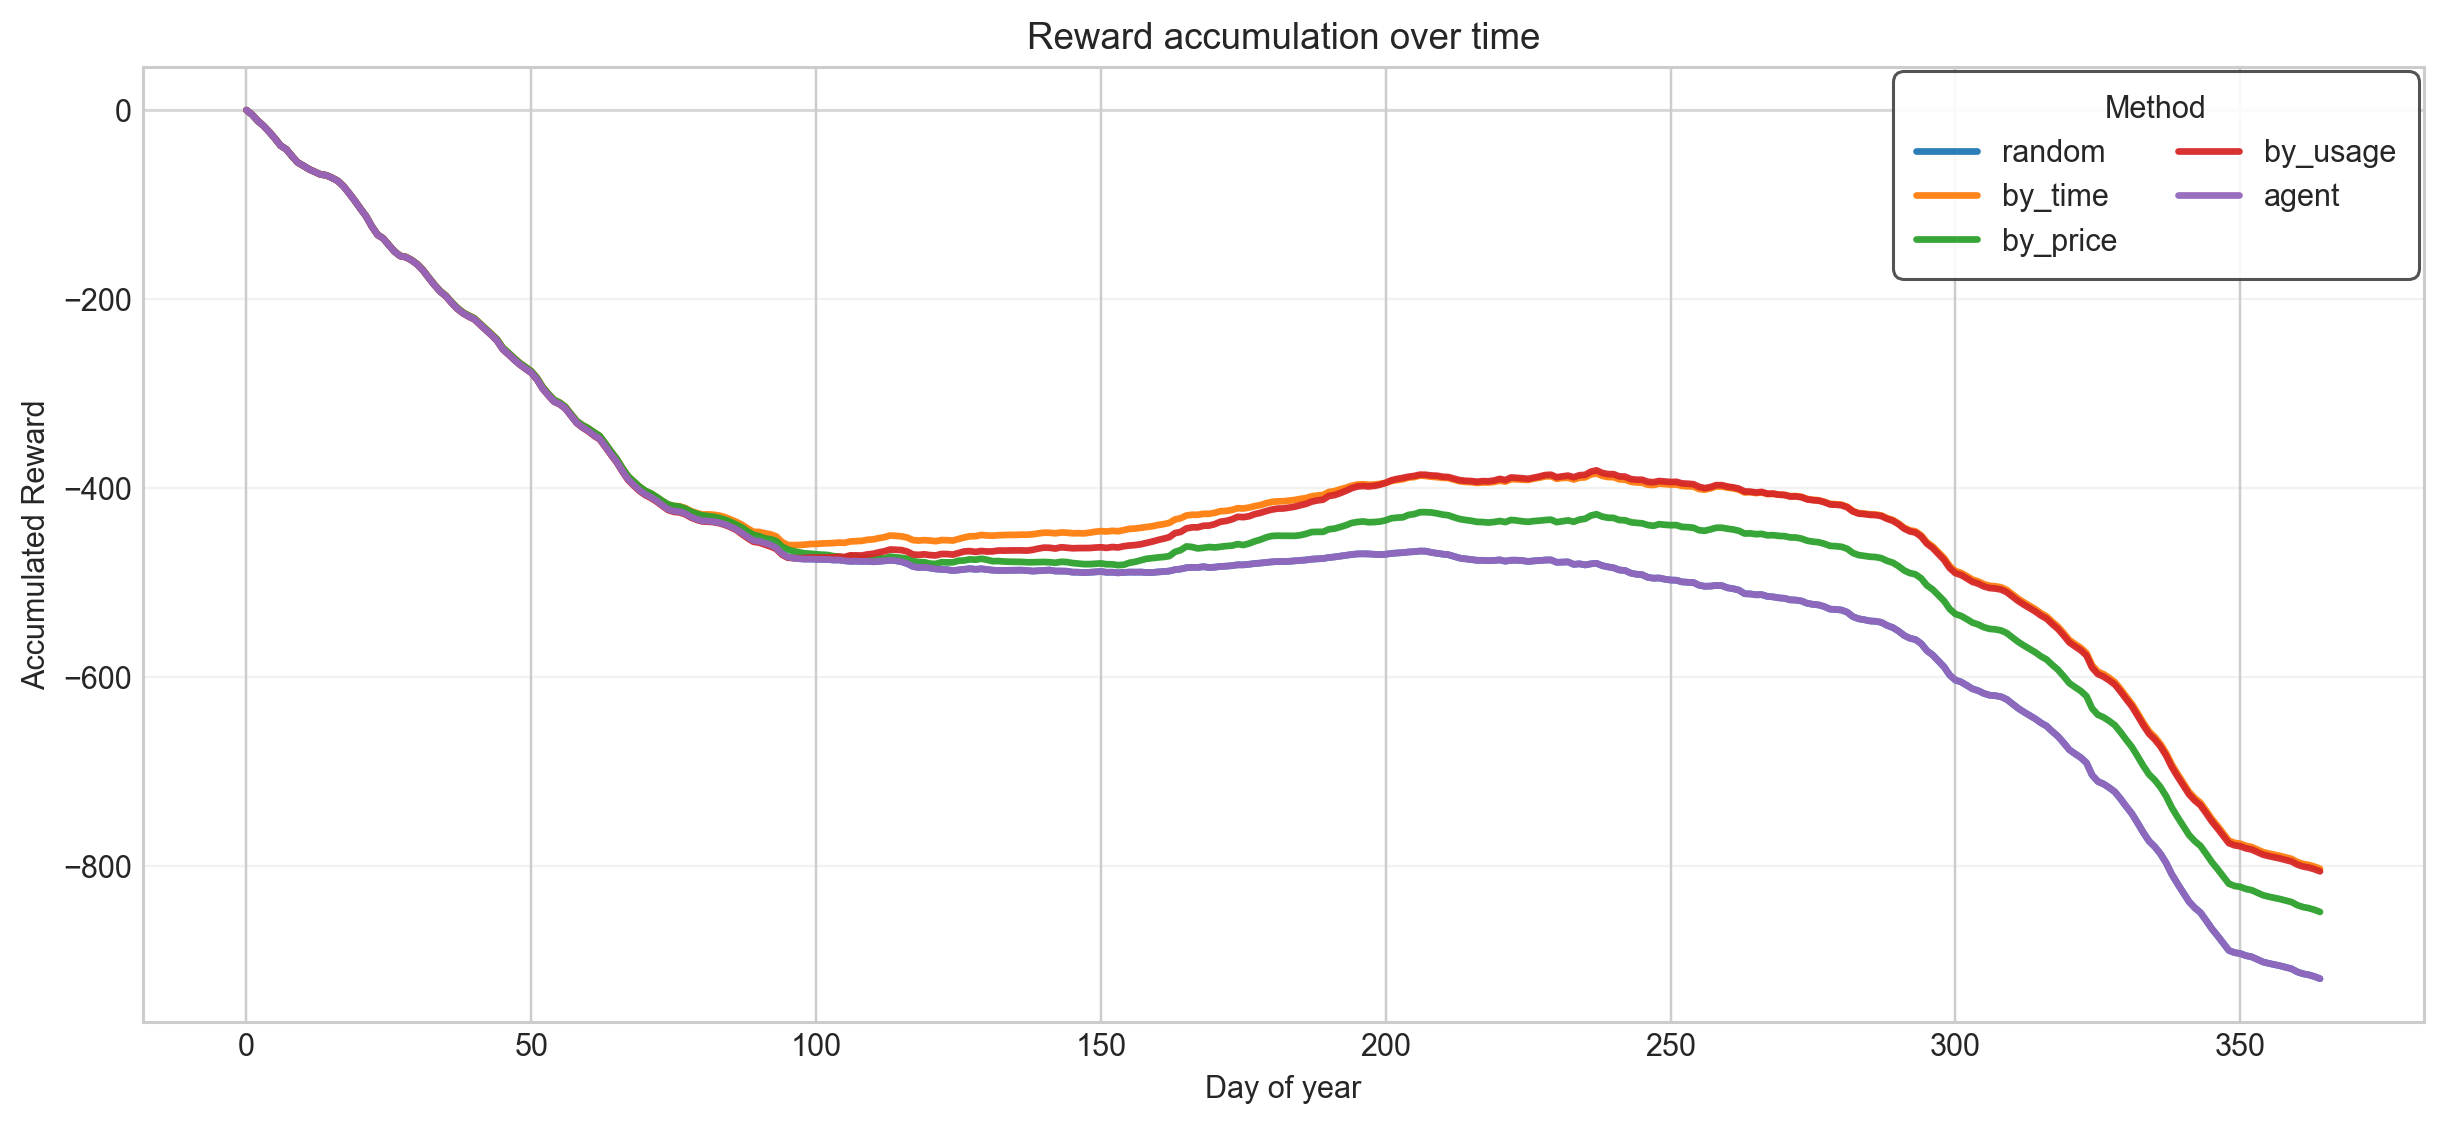
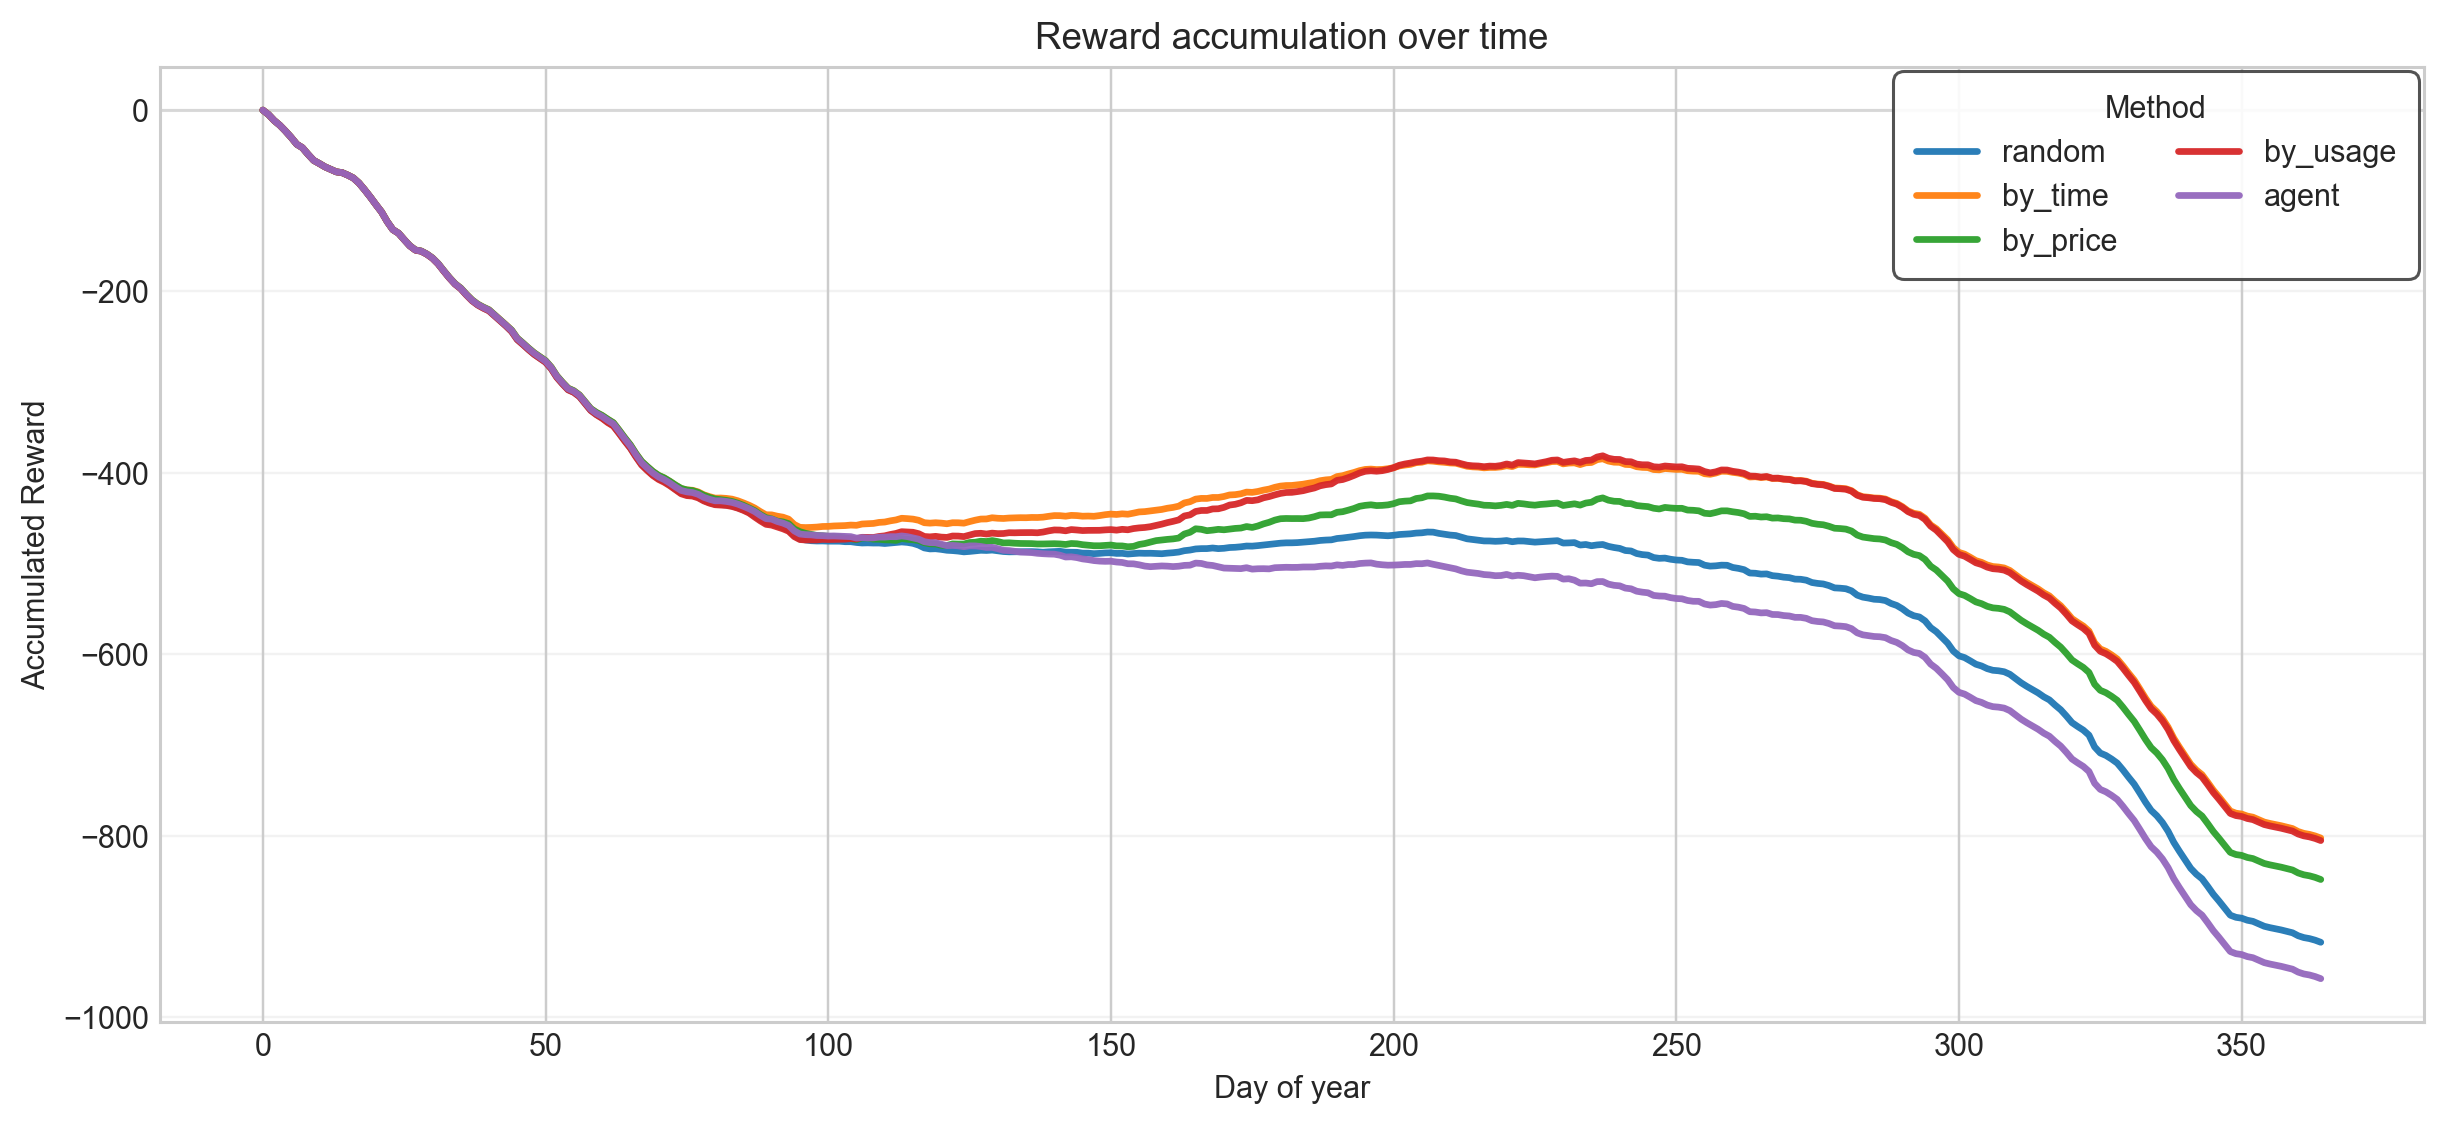
better metric + layer norm

diff --git a/agent.py b/agent.py
@@ -79,6 +79,7 @@ class Agent():
         step_count = 0  # counts environment steps across episodes
         best_reward = -9999999
         last_saved_episode = -1
+        last_30_acc_rewards = []
 
         # Train indefinitely, until manually stop
         for episode in itertools.count():
@@ -123,11 +124,14 @@ class Agent():
                 if episode_acc_reward > best_reward:
                     best_reward = episode_acc_reward
             
+            last_30_acc_rewards.append(episode_acc_reward)
+            last_30_acc_rewards = last_30_acc_rewards[-30:]
+            
             self.wandb_run.log({
                 "episode": episode,
-                "reward": episode_acc_reward
+                "reward": episode_acc_reward,
+                "average_last_30_episode_rewards": sum(last_30_acc_rewards) / len(last_30_acc_rewards)
             })
-            
     
 
     def optimize(self, mini_batch, policy_dqn, target_dqn):

diff --git a/dqn.py b/dqn.py
@@ -8,6 +8,8 @@ class DQN(nn.Module):
         self.fc1 = nn.Linear(input_dim, hidden_dim)
         self.fc2 = nn.Linear(hidden_dim, hidden_dim)
         self.fc3 = nn.Linear(hidden_dim, output_dim)
+        self.ln1 = nn.LayerNorm(hidden_dim)
+        self.ln2 = nn.LayerNorm(hidden_dim)
         self._init_weights()
 
     def _init_weights(self):
@@ -19,8 +21,8 @@ class DQN(nn.Module):
                     nn.init.zeros_(m.bias)
 
     def forward(self, x):
-        x = F.relu(self.fc1(x))
-        x = F.relu(self.fc2(x))
+        x = F.relu(self.ln1(self.fc1(x)))
+        x = F.relu(self.ln2(self.fc2(x)))
         return self.fc3(x)
 
 
